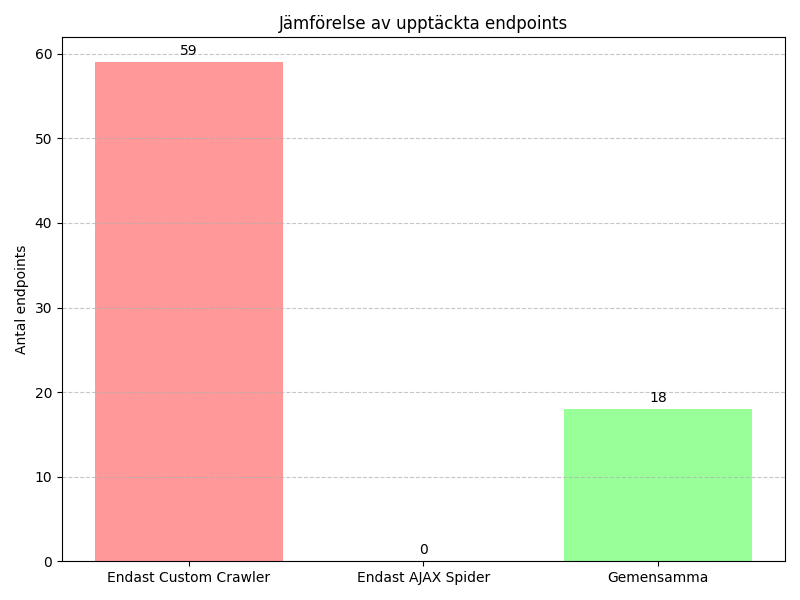
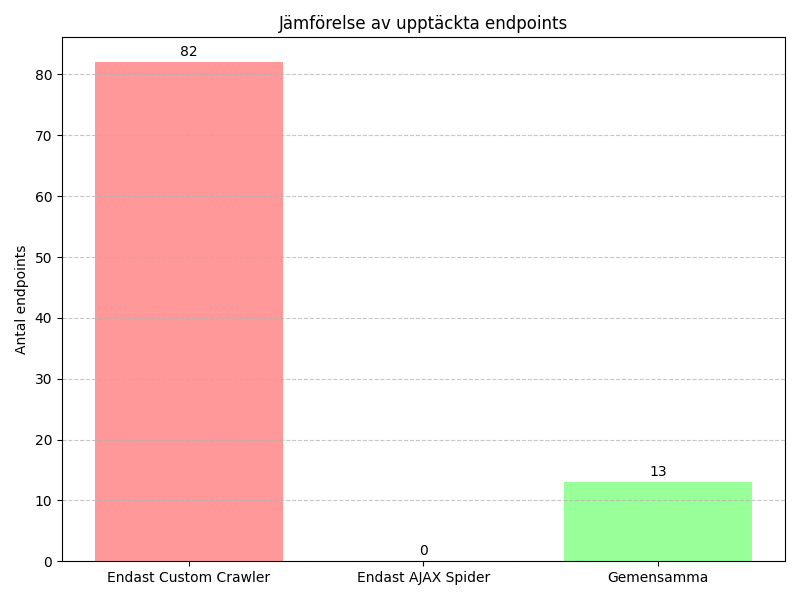
Ändringar till tester och data som plockas ut.

diff --git a/zap.py b/zap.py
@@ -1,7 +1,8 @@
 from zapv2 import ZAPv2
 import time
 import matplotlib.pyplot as plt
-from matplotlib_venn import venn2
+import os
+from datetime import datetime
 
 class Zap:
     def __init__(self, apikey):
@@ -9,8 +10,16 @@ class Zap:
 
 
     def run_spiders(self, url="http://localhost:3000"):
+        session_catalog = self.ensure_zap_session_catalog()
+        timestamp = datetime.now().strftime("%Y%m%d_%H%M%S")
+
         result_custom = self.run_custom_crawler(url)
+        session_name = os.path.join(session_catalog, f"custom_{timestamp}.session")
+        self.zap.core.save_session(name=session_name, overwrite=True)
+
         result_ajax_spider = self.run_ajax_spider(url)
+        session_name = os.path.join(session_catalog, f"ajax_{timestamp}.session")
+        self.zap.core.save_session(name=session_name, overwrite=True)
 
         self.compare_spiders(result_custom, result_ajax_spider)
 
@@ -59,26 +68,59 @@ class Zap:
         return filtered_result
 
     def is_irrelevant(self, url):
+        # Lägre fall för enklare matchning
+        url_lower = url.lower()
+
+        # Filändelser vi inte bryr oss om
         uninteresting_extensions = (
             ".js", ".css", ".jpg", ".jpeg", ".png", ".gif", ".svg",
-            ".woff", ".woff2", ".ttf", ".eot", ".ico", ".mp4", ".webp"
+            ".woff", ".woff2", ".ttf", ".eot", ".ico", ".mp4", ".webp",
+            ".ini", ".xml", ".pem", ".key", ".sql", ".md", ".log",
+            ".map", ".pdf", ".csv", ".yml", ".rss", ".scss", ".sass",
+            ".txt", ".mp3", ".avi", ".mov", ".zip", ".rar", ".7z",
         )
 
-        if url.lower().endswith(uninteresting_extensions):
+        # Filer som kan innehålla känslig information men inte är endpoints
+        sensitive_files = (
+            ".env", ".htaccess", "id_rsa", "id_dsa", "myserver.key",
+            "server.key", "privatekey.key", "config.yml", "config.json",
+            ".ds_store", "composer.lock", "package-lock.json",
+            "phpinfo.php", "info.php", "elmah.axd", "trace.axd"
+        )
+
+        # Kataloger som är versionskontroll, IDE-konfiguration etc.
+        blacklisted_paths = (
+            "/.git", "/.svn", "/.hg", "/.bzr", "/.idea", "/_wpeprivate",
+            "/cvs", "/bitkeeper", "/node_modules", "/bower_components",
+            "/vendor/", "/backup", "/backups", "/temp", "/cache", "/logs"
+        )
+
+        # Speciella strängar som indikerar runtime eller dev-artefakter
+        blacklisted_keywords = (
+            "socket.io", "runtime", "polyfills", "vendor", "static",
+            "webpack", "favicon", "robots.txt", "sitemap.xml",
+            "assets/", "fonts/", "images/", "scripts/", "styles/",
+            "public/", "uploads/", "media/", "docs/", "examples/"
+        )
+
+        if url_lower.endswith(uninteresting_extensions):
             return True
-        
-        if "/socket.io" in url:
+
+        if any(s in url_lower for s in sensitive_files):
             return True
-        
-        if "runtime" in url or "polyfills" in url or "vendor" in url:
+
+        if any(p in url_lower for p in blacklisted_paths):
             return True
+
+        if any(k in url_lower for k in blacklisted_keywords):
+            return True
+
         return False
     
     def compare_spiders(self,custom_endpoints, ajax_endpoints):
         set_custom = set(custom_endpoints)
         set_ajax = set(ajax_endpoints)
 
-        # Endast i custom, endast i ajax, gemensamma
         only_custom = set_custom - set_ajax
         only_ajax = set_ajax - set_custom
         common = set_custom & set_ajax
@@ -86,19 +128,23 @@ class Zap:
         labels = ['Endast Custom Crawler', 'Endast AJAX Spider', 'Gemensamma']
         counts = [len(only_custom), len(only_ajax), len(common)]
 
-        # Plot
         plt.figure(figsize=(8, 6))
         bars = plt.bar(labels, counts, color=['#ff9999', '#66b3ff', '#99ff99'])
         plt.title('Jämförelse av upptäckta endpoints')
         plt.ylabel('Antal endpoints')
         plt.grid(axis='y', linestyle='--', alpha=0.7)
 
-        # Lägg till etiketter ovanpå staplarna
         for bar in bars:
             yval = bar.get_height()
             plt.text(bar.get_x() + bar.get_width() / 2, yval + 0.5, int(yval), ha='center', va='bottom')
 
-        # Spara grafen som PNG
         plt.tight_layout()
         plt.savefig("endpoint_comparison.png")
         print("✅ Graf sparad som 'endpoint_comparison.png'")
+
+    def ensure_zap_session_catalog(self):
+        base_dir = os.path.dirname(os.path.abspath(__file__))
+        session_dir = os.path.join(base_dir, "zap_sessions")
+        os.makedirs(session_dir, exist_ok=True)
+
+        return session_dir

diff --git a/zapcrawler/zapcrawler/spiders/zapspider.py b/zapcrawler/zapcrawler/spiders/zapspider.py
@@ -191,43 +191,53 @@ class ZAPSpider(scrapy.Spider):
         return interactive_elements_dict
 
     async def interact_with_page(self, page, interactive_elements_dict, depth):
-        #Fullösning för att undvika oändlig rekursion
+        #Lösning för att undvika oändlig rekursion
         if depth > self.max_depth:
             return
 
-        #await self.fill_fillables(page, interactive_elements_dict["fillables"])
+        if interactive_elements_dict.get("fillables"):
+            await self.fill_fillables(page, interactive_elements_dict["fillables"])
         await self.click_clickables(page, depth, interactive_elements_dict["clickables"])
 
 
-    async def find_fillables(self, page):
-        fillable_types = [
-            "input[type='text']",
-            "input[type='email']",
-            "input[type='search']",
-            "input[type='password']",
-            "input:not([type])",
-            "textarea",
-            "[contenteditable='true']"
-        ]
 
-        fillables = deque()
-        for selector in fillable_types:
-            elements = await page.query_selector_all(selector)
-            fillables.extend(elements)
-        
-        return fillables
+    async def find_fillables(self, page):
+        try:
+            fillable_selectors = [
+                "input[type='text']",
+                "input[type='email']",
+                "input[type='search']",
+                "input[type='password']",
+                "input:not([type])",
+                "textarea",
+                "[contenteditable='true']"
+            ]
+
+            locators = []
+            for selector in fillable_selectors:
+                locator_group = page.locator(selector)
+                count = await locator_group.count()
+
+                for i in range(count):
+                    locators.append(locator_group.nth(i))
+
+            return locators
+        except Exception as e:
+            print("\n", e)
 
     async def fill_fillables(self, page, fillables):
         text = "test"
+        fillables = deque(fillables)
 
         while fillables:
             fillable = fillables.popleft()
-
             try:
                 if await fillable.is_visible() and await fillable.is_enabled():
                     await fillable.fill(text)
+                    await fillable.press("Enter")
+                    await page.wait_for_load_state("networkidle")
             except Exception as e:
-                pass
+                await page.wait_for_load_state("networkidle")
 
     async def find_clickables_from_page(self, page):
         selectors = ["button", "a", '[role="button"]', "[onclick]", '[aria-label="Close Dialog"]']
